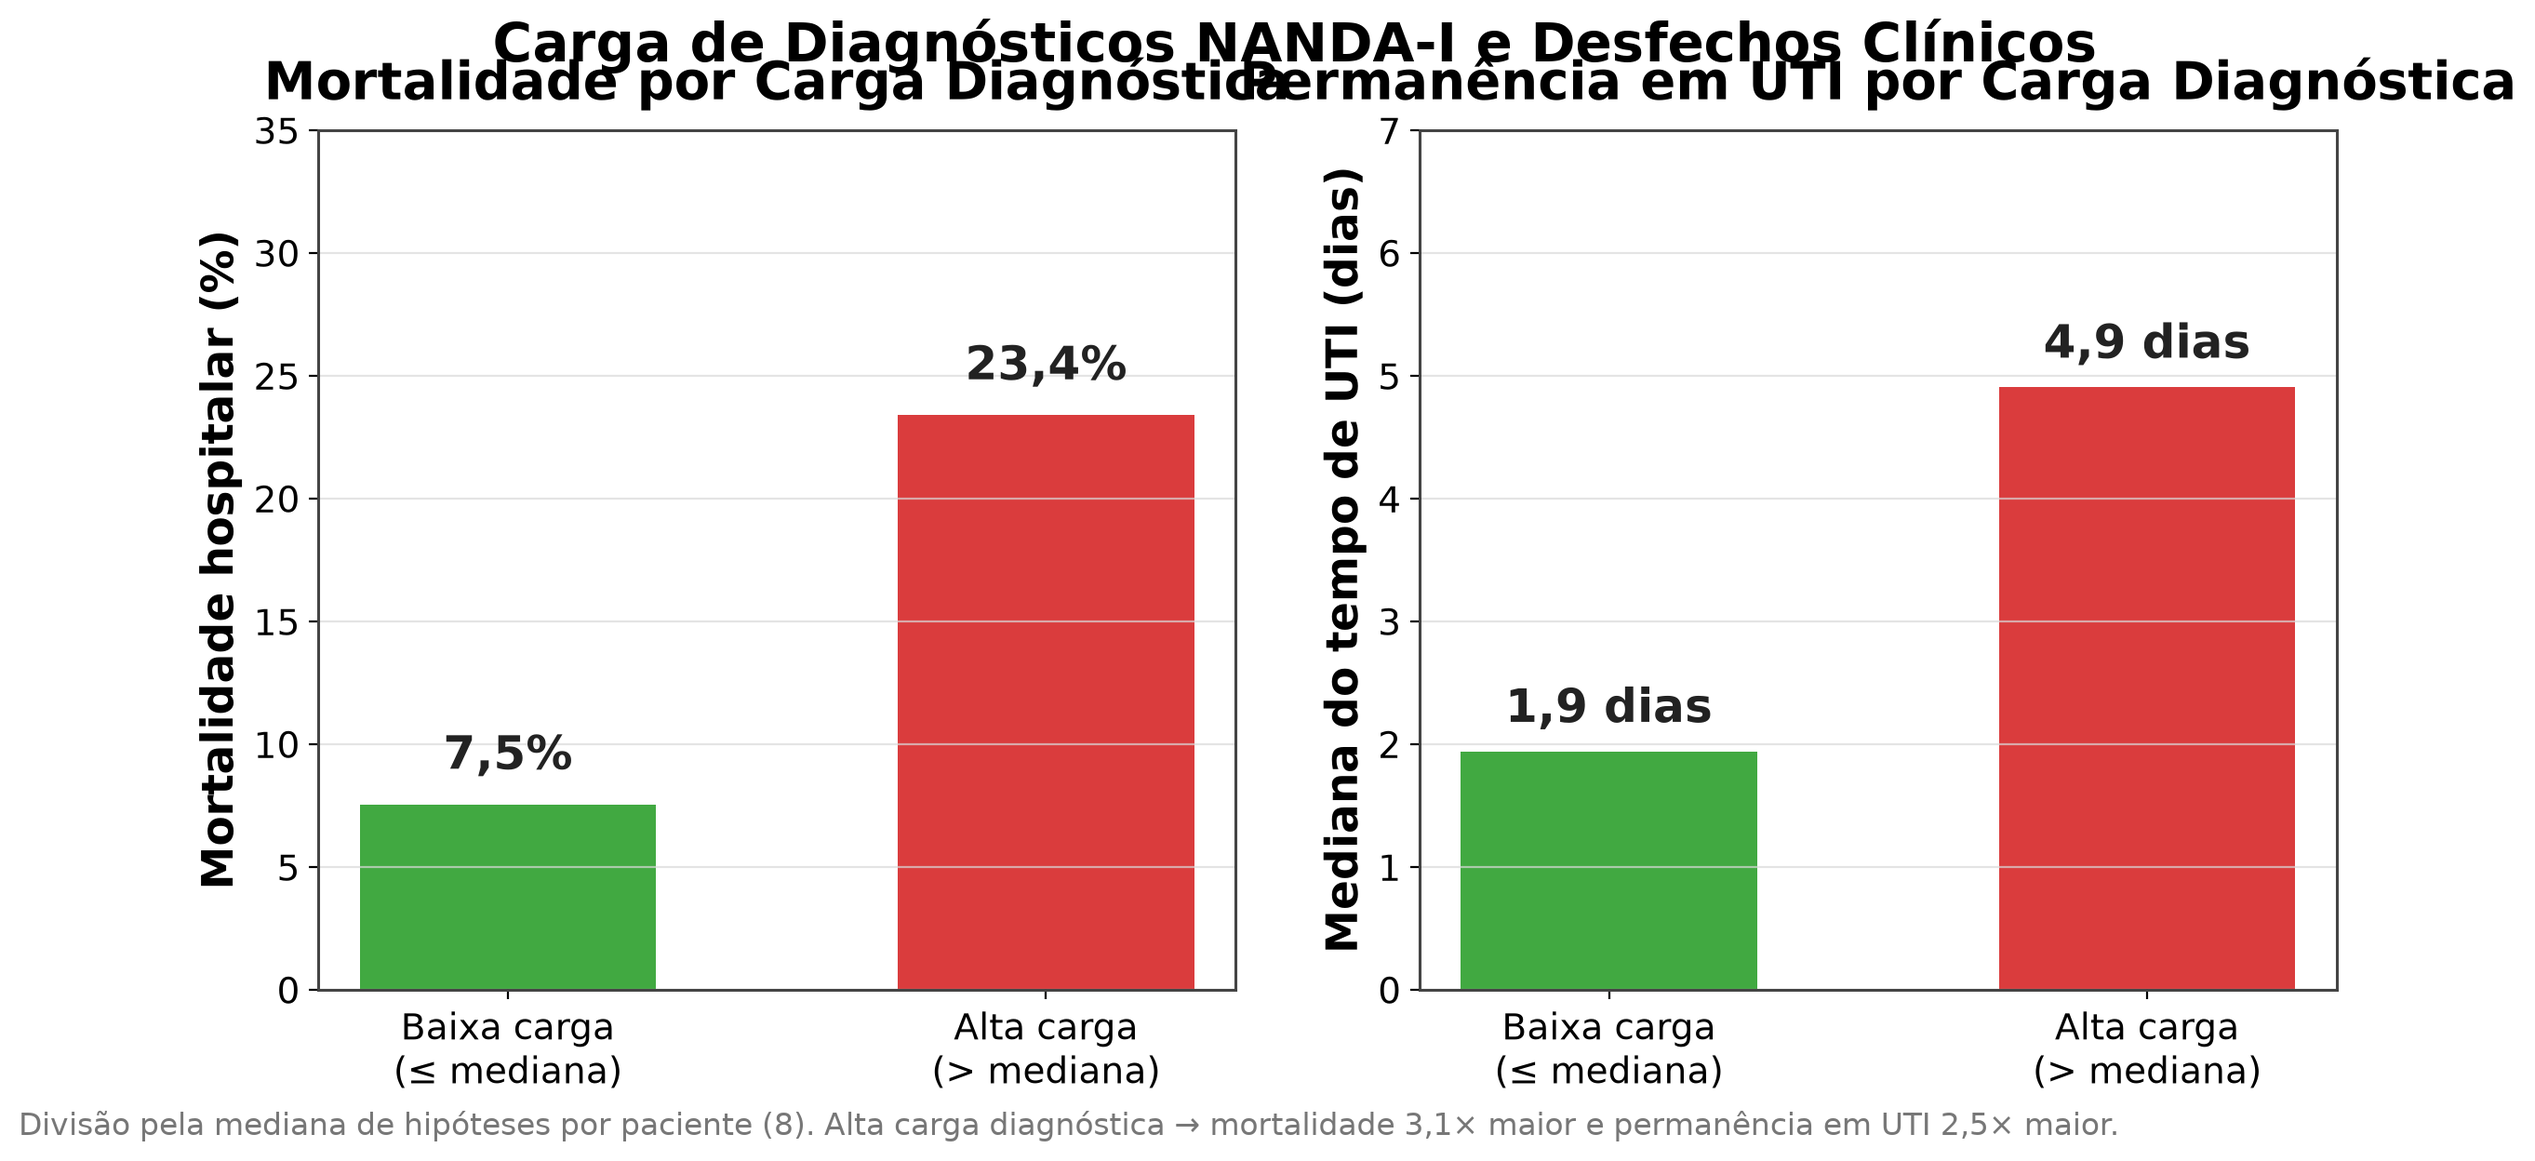
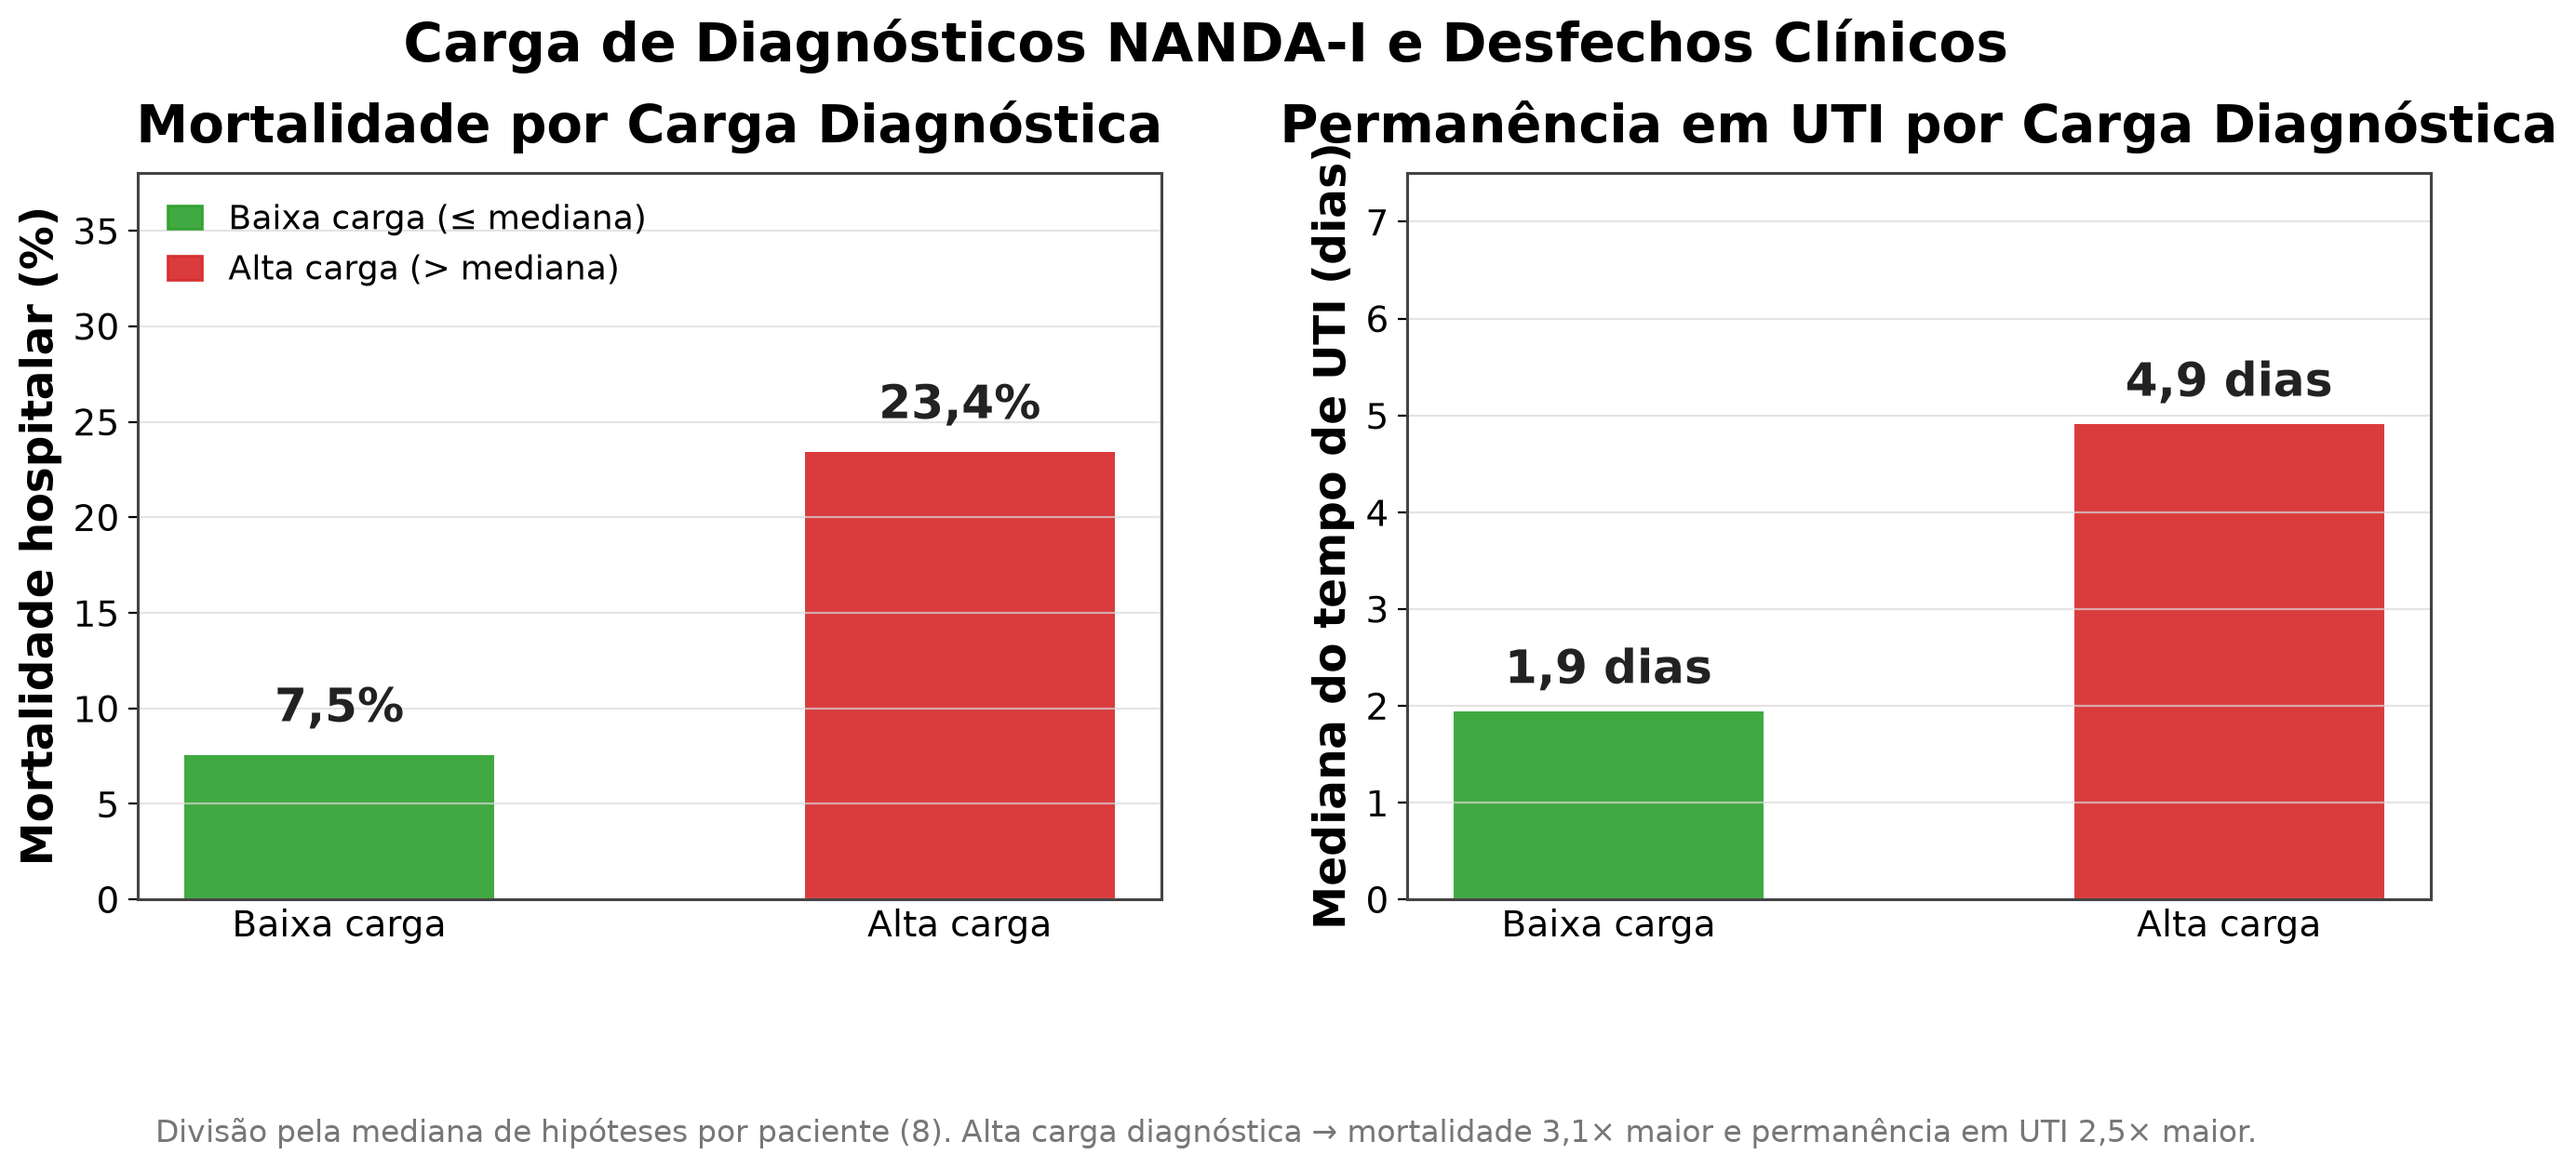
Ajusta legenda da FigF para não ocupar espaço dos rótulos

Changed region(s): [[0.0, 0.0, 0.9982, 1.0], [0.4367, 0.1875, 0.4679, 0.2188]]

diff --git a/scripts/analises_demonstracao.py b/scripts/analises_demonstracao.py
@@ -277,42 +277,52 @@ print("FigF: Carga diagnóstica vs desfecho...")
 adm2 = adm.groupby("subject_id")["hospital_expire_flag"].max().reset_index(name="obito")
 df2 = carga.merge(adm2, on="subject_id").merge(icu2, on="subject_id", how="left")
 med = df2["n_hip"].median()
-df2["grupo"] = np.where(df2["n_hip"] > med, "Alta carga\n(> mediana)", "Baixa carga\n(≤ mediana)")
+df2["grupo"] = np.where(df2["n_hip"] > med, "Alta carga", "Baixa carga")
 resumo = df2.groupby("grupo").agg(
     mortalidade=("obito", "mean"),
     los_medi=("los_uti", "median"),
     n=("subject_id", "count"),
-).reindex(["Baixa carga\n(≤ mediana)", "Alta carga\n(> mediana)"])
+).reindex(["Baixa carga", "Alta carga"])
 
-fig, axes = plt.subplots(1, 2, figsize=(14, 6))
+fig, axes = plt.subplots(1, 2, figsize=(14, 6.4))
 # Mortalidade
 bars = axes[0].bar(resumo.index, resumo["mortalidade"] * 100,
-                    color=[C["verde"], C["vermelho"]], width=0.55, alpha=0.9)
+                    color=[C["verde"], C["vermelho"]], width=0.5, alpha=0.9)
 for b, v in zip(bars, resumo["mortalidade"] * 100):
-    axes[0].text(b.get_x() + b.get_width() / 2, b.get_height() + 1,
+    axes[0].text(b.get_x() + b.get_width() / 2, b.get_height() + 1.2,
                  f"{fmt_br(v, 1)}%", ha="center", va="bottom",
                  fontsize=18, fontweight="bold", color="#222222")
 axes[0].set_ylabel("Mortalidade hospitalar (%)")
 axes[0].set_title("Mortalidade por Carga Diagnóstica", pad=12)
-axes[0].set_ylim(0, 35)
+axes[0].set_ylim(0, 38)
 axes[0].grid(axis="x", visible=False)
+axes[0].tick_params(axis="x", length=0)
 # LOS
 bars = axes[1].bar(resumo.index, resumo["los_medi"],
-                   color=[C["verde"], C["vermelho"]], width=0.55, alpha=0.9)
+                   color=[C["verde"], C["vermelho"]], width=0.5, alpha=0.9)
 for b, v in zip(bars, resumo["los_medi"]):
-    axes[1].text(b.get_x() + b.get_width() / 2, b.get_height() + 0.15,
+    axes[1].text(b.get_x() + b.get_width() / 2, b.get_height() + 0.18,
                  f"{fmt_br(v, 1)} dias", ha="center", va="bottom",
                  fontsize=18, fontweight="bold", color="#222222")
 axes[1].set_ylabel("Mediana do tempo de UTI (dias)")
 axes[1].set_title("Permanência em UTI por Carga Diagnóstica", pad=12)
-axes[1].set_ylim(0, 7)
+axes[1].set_ylim(0, 7.5)
 axes[1].grid(axis="x", visible=False)
+axes[1].tick_params(axis="x", length=0)
+
+# Legenda das cores dentro da área vazia do gráfico (sem sobrepor rótulos)
+handles = [plt.Rectangle((0, 0), 1, 1, color=C["verde"], alpha=0.9),
+           plt.Rectangle((0, 0), 1, 1, color=C["vermelho"], alpha=0.9)]
+axes[0].legend(handles, ["Baixa carga (≤ mediana)", "Alta carga (> mediana)"],
+               loc="upper left", frameon=False, fontsize=13, handlelength=1.0)
+
 fig.suptitle("Carga de Diagnósticos NANDA-I e Desfechos Clínicos",
-             fontsize=21, fontweight="bold")
-fig.text(0.01, -0.02,
+             fontsize=21, fontweight="bold", y=0.98)
+fig.subplots_adjust(left=0.09, right=0.97, top=0.85, bottom=0.24, wspace=0.24)
+fig.text(0.5, 0.03,
          f"Divisão pela mediana de hipóteses por paciente ({med:.0f}). "
          "Alta carga diagnóstica → mortalidade 3,1× maior e permanência em UTI 2,5× maior.",
-         fontsize=12, color="#777777")
+         ha="center", va="bottom", fontsize=12, color="#777777")
 salvar(fig, "FigF_Carga_Desfecho")
 
 # ===========================================================================
